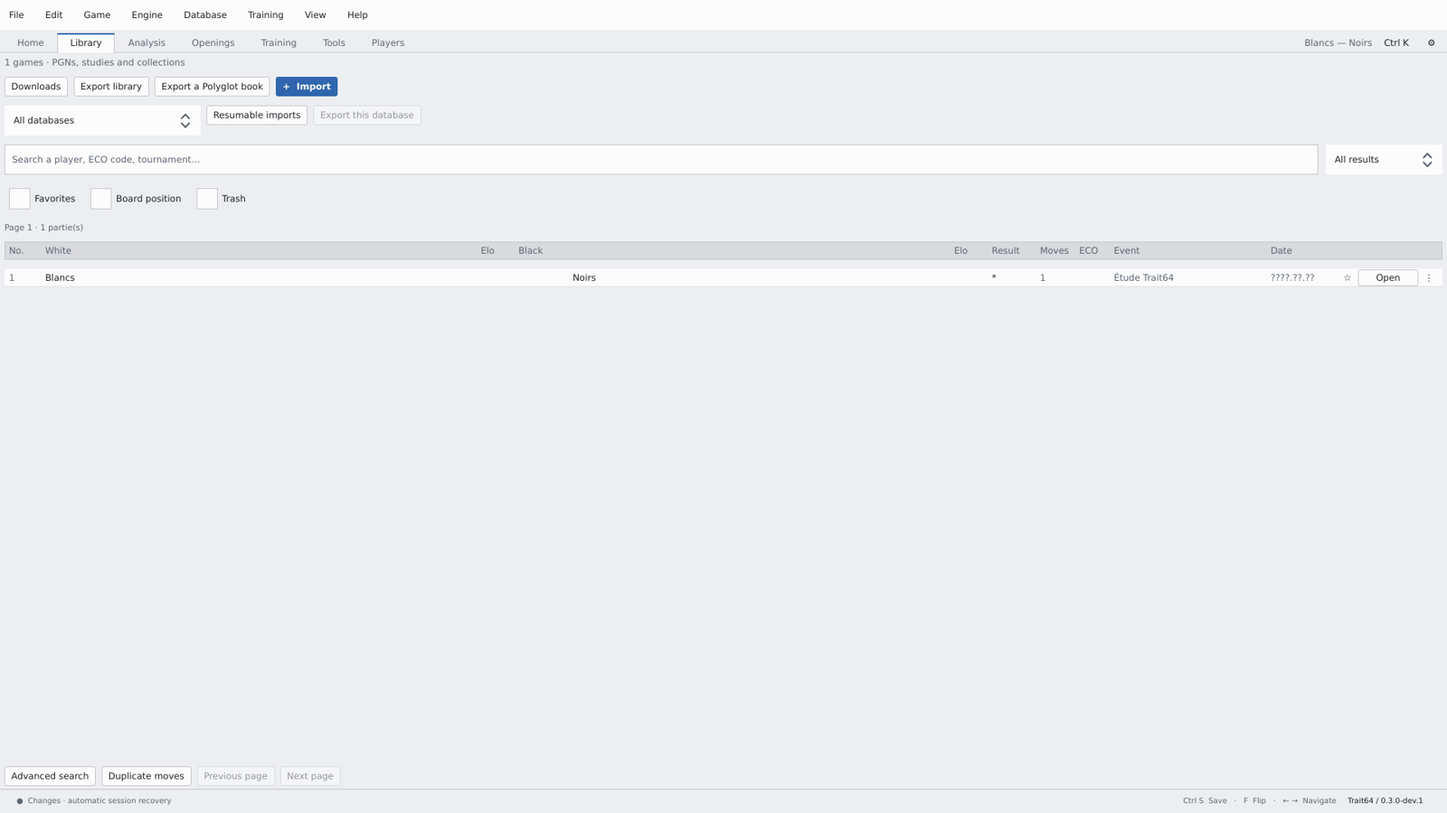
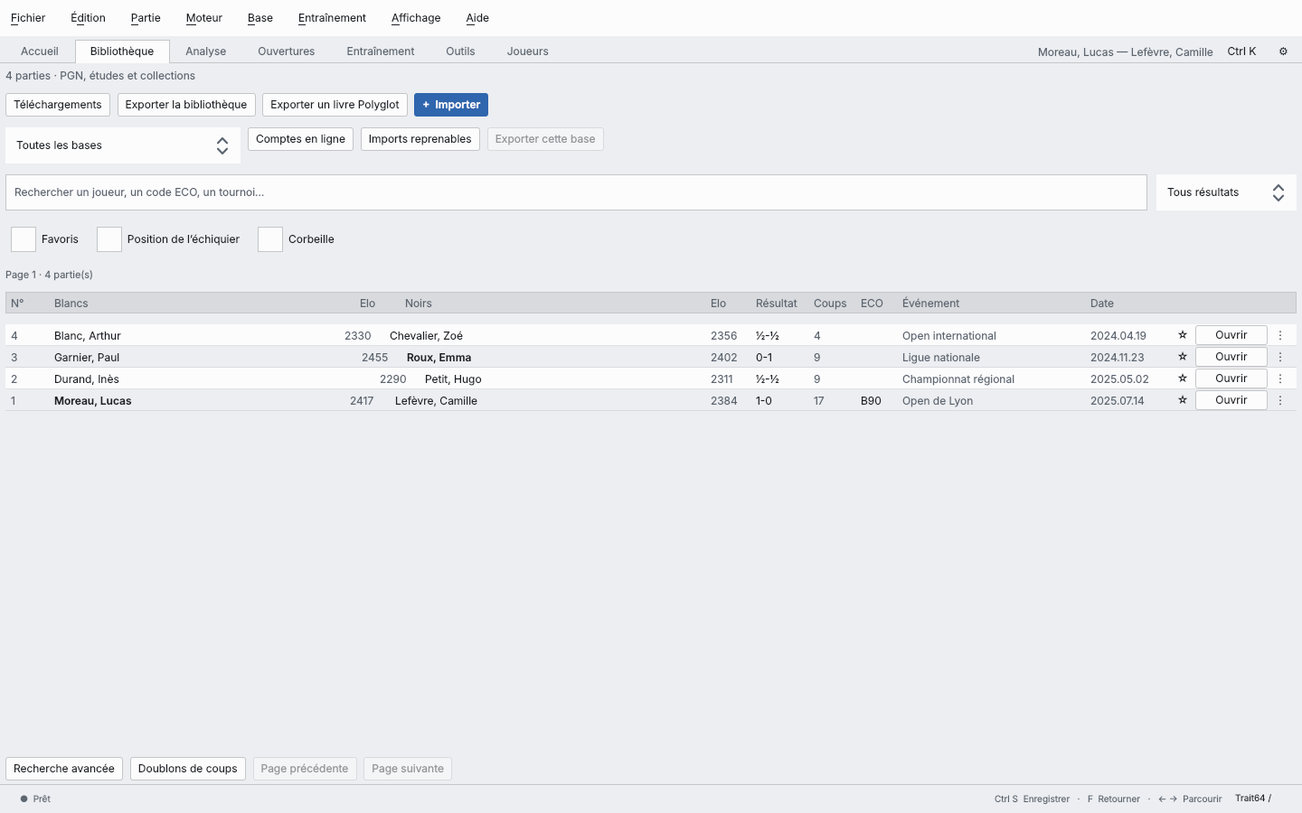
Installation en une commande, README et captures à jour
- install.sh : dernière version publiée, empreinte SHA-256 vérifiée,
  entrée dans le menu, désinstallation ; AppImage sans sudo ou .deb.
- README : téléchargement en tête, captures prises par
  desktop_tests --showcase (Najdorf commentée, moteur en marche).
- Carnet en tableau : étiquette de variante sur sa première ligne seulement.
- Journal des changements : bilan en deux passages, comptes en ligne.

diff --git a/ui/MoveNotebook.qml b/ui/MoveNotebook.qml
@@ -252,7 +252,7 @@ Item {
                 property real moveHeight: modelData.initial ? initialButton.height : cells.height + (branchLabel.visible ? branchLabel.implicitHeight + row.spacing : 0)
                 Label {
                     id: branchLabel
-                    visible: !row.modelData.initial && row.modelData.depth > 0
+                    visible: !row.modelData.initial && row.modelData.depth > 0 && !!row.modelData.start
                     width: row.width - row.indent
                     x: row.indent
                     text: "↳ " + qsTr("Variante") + " · " + row.modelData.depth

diff --git a/tests/showcase_probe.h b/tests/showcase_probe.h
@@ -1,0 +1,63 @@
+// SPDX-License-Identifier: AGPL-3.0-or-later
+#pragma once
+// `desktop_tests --showcase <folder>`: README screenshots from a realistic session
+// (a commented game, several library games, the engine running when T64_STOCKFISH is set).
+
+int showcaseProbe(const QString &directory, const QString &output) {
+    QSettings().setValue("language", "fr");
+    QSettings().setValue("lightTheme", true);
+    Controller c(directory + "/showcase");
+    if (!qEnvironmentVariable("T64_STOCKFISH").isEmpty()) {
+        c.setPreference("enginePath", qEnvironmentVariable("T64_STOCKFISH"));
+        c.setPreference("multiPV", 3);
+    }
+    c.importText(
+        "[Event \"Open de Lyon\"]\n[Date \"2025.07.14\"]\n[White \"Moreau, Lucas\"]\n[Black \"Lefèvre, Camille\"]\n"
+        "[WhiteElo \"2417\"]\n[BlackElo \"2384\"]\n[Result \"1-0\"]\n[ECO \"B90\"]\n\n"
+        "1. e4 c5 2. Nf3 d6 3. d4 cxd4 4. Nxd4 Nf6 5. Nc3 a6 6. Be3 e5 (6... e6 7. f3 b5 8. Qd2 Nbd7 9. g4) 7. Nb3 Be6 "
+        "8. f3 {Le plan f3, Dd2 et grand roque : les Blancs visent g4-g5 sur l'aile roi.} Be7 9. Qd2 O-O 10. O-O-O Nbd7 "
+        "11. g4 b5 12. g5 Nh5 13. Nd5 Bxd5 14. exd5 f5 15. gxf6 Bxf6 16. Bh3 b4 17. Kb1 a5 1-0\n\n"
+        "[Event \"Championnat régional\"]\n[White \"Durand, Inès\"]\n[Black \"Petit, Hugo\"]\n[WhiteElo \"2290\"]\n"
+        "[BlackElo \"2311\"]\n[Result \"1/2-1/2\"]\n[Date \"2025.05.02\"]\n\n1. e4 c5 2. Nf3 d6 3. d4 cxd4 4. Nxd4 Nf6 5. Nc3 a6 "
+        "6. Be3 e5 7. Nb3 Be6 8. Be2 Be7 9. O-O O-O 1/2-1/2\n\n"
+        "[Event \"Ligue nationale\"]\n[White \"Garnier, Paul\"]\n[Black \"Roux, Emma\"]\n[WhiteElo \"2455\"]\n"
+        "[BlackElo \"2402\"]\n[Result \"0-1\"]\n[Date \"2024.11.23\"]\n\n1. e4 c5 2. Nf3 d6 3. d4 cxd4 4. Nxd4 Nf6 5. Nc3 a6 "
+        "6. Be3 e5 7. Nb3 Be6 8. f3 h5 9. Qd2 Nbd7 0-1\n\n"
+        "[Event \"Open international\"]\n[White \"Blanc, Arthur\"]\n[Black \"Chevalier, Zoé\"]\n[WhiteElo \"2330\"]\n"
+        "[BlackElo \"2356\"]\n[Result \"1/2-1/2\"]\n[Date \"2024.04.19\"]\n\n1. d4 d5 2. c4 e6 3. Nc3 Nf6 4. Bg5 Be7 1/2-1/2");
+    QElapsedTimer wait;
+    wait.start();
+    while ((c.busy() || c.librarySearching()) && wait.elapsed() < 15000) QTest::qWait(20);
+    qint64 id = 0;
+    for (const auto &value : c.games())
+        if (value.toMap()["white"] == "Moreau, Lucas") id = value.toMap()["id"].toLongLong();
+    check(id > 0, "Showcase game imported");
+    c.loadGame(id);
+    // 7... Be6: main-line node 14.
+    for (int ply = 0; ply < 14; ++ply) c.step(1);
+    const int node = c.state()["node"].toInt();
+    QQmlApplicationEngine engine;
+    engine.rootContext()->setContextProperty("controller", &c);
+    engine.load(QUrl("qrc:/ui/Main.qml"));
+    check(!engine.rootObjects().isEmpty(), "Showcase QML loads");
+    auto *window = qobject_cast<QQuickWindow *>(engine.rootObjects().first());
+    window->resize(1440, 900);
+    auto grab = [&](const QString &name) {
+        QTest::qWait(300);
+        auto image = window->contentItem()->grabToImage();
+        QSignalSpy ready(image.data(), &QQuickItemGrabResult::ready);
+        check(ready.wait(5000) && image->saveToFile(output + "/" + name + ".png"), "Showcase screenshot saved");
+    };
+    window->setProperty("page", 1);
+    grab("library");
+    window->setProperty("page", 2);
+    c.navigate(node);
+    if (!qEnvironmentVariable("T64_STOCKFISH").isEmpty()) {
+        c.toggleAnalysis();
+        QTest::qWait(4000);
+    }
+    grab("analysis");
+    if (c.state()["analysis"].toBool()) c.toggleAnalysis();
+    std::cout << "Showcase screenshots written to " << output.toStdString() << "\n";
+    return 0;
+}

diff --git a/app/move_notation.h b/app/move_notation.h
@@ -71,6 +71,7 @@ inline QVariantList moveRows(const Game &game, int current, int french) {
     // siblings are emitted as separate blocks after the complete parent row.
     std::function<void(int, int)> line = [&](int id, int depth) {
         if (depth > 128) return;
+        bool start = true;
         while (id > 0 && visited < 10000) {
             const auto &node = game.nodes[id];
             const auto board = game.boardAt(node.parent);
@@ -78,7 +79,8 @@ inline QVariantList moveRows(const Game &game, int current, int french) {
             const bool white = board.sideToMove() == chess::Color::WHITE;
             int last = id;
             QVariantMap row{{"initial", false}, {"depth", depth}, {"number", number},
-                            {"white", QVariantMap()}, {"black", QVariantMap()}};
+                            {"white", QVariantMap()}, {"black", QVariantMap()}, {"start", start}};
+            start = false;
             row[white ? "white" : "black"] = entry(id);
             ++visited;
             if (white && !node.children.empty() && visited < 10000) {

diff --git a/tests/ui_layout_probe.h b/tests/ui_layout_probe.h
@@ -24,7 +24,7 @@ int uiLayoutProbe(const QString &directory) {
     auto *window=qobject_cast<QQuickWindow *>(engine.rootObjects().first());
     check(window, "Layout: application window exists");
     struct Scenario {int width,height;double text,ui;bool light;const char *language;};
-    const Scenario scenarios[]={{960,640,1,1,false,"fr"},{1366,768,1,1,false,"fr"},{1440,940,1,1,false,"fr"},{1920,1080,1,1,true,"en"},{2560,1600,1,1,false,"en"},{960,640,1.5,1,true,"en"},{1366,768,1.5,1.25,false,"fr"},{1440,940,1.5,1.25,true,"en"},{960,640,1.5,1.25,true,"en"}};
+    const Scenario scenarios[]={{960,640,1,1,false,"fr"},{1366,768,1,1,false,"fr"},{1440,940,1,1,false,"fr"},{1920,1080,1,1,true,"en"},{2560,1600,1,1,false,"en"},{960,640,1.5,1,true,"en"},{1366,768,1.5,1.25,false,"fr"},{1440,940,1.5,1.25,true,"en"},{1440,900,1,1,true,"fr"},{960,640,1.5,1.25,true,"en"}};
     const auto output=qEnvironmentVariable("T64_UI_SCREENSHOTS");
     if(!output.isEmpty()) QDir().mkpath(output);
     QJsonArray report;

diff --git a/tests/desktop_tests.cpp b/tests/desktop_tests.cpp
@@ -42,6 +42,7 @@ QQuickItem *visualItem(QQuickItem *parent, const QString &name) {
 #include "import_gui_probe.h"
 #include "ui_layout_probe.h"
 #include "move_notebook_probe.h"
+#include "showcase_probe.h"
 // Hold the global pool so the queued verification cannot finish before we
 // exercise the UI and request cancellation. Release safely on assertion failure.
 class PoolGate {
@@ -86,6 +87,8 @@ int main(int argc, char **argv) {
     try {
         if (app.arguments().contains("--move-notebook")) return moveNotebookProbe(dir.path());
         if (app.arguments().contains("--ui-layout")) return uiLayoutProbe(dir.path());
+        if (const int i = int(app.arguments().indexOf("--showcase")); i > 0 && i + 1 < app.arguments().size())
+            return showcaseProbe(dir.path(), app.arguments()[i + 1]);
         if (app.arguments().contains("--benchmark-import"))
             return importGuiProbe(app, dir.path());
         if (!qEnvironmentVariable("T64_STOCKFISH").isEmpty()) {

diff --git a/tests/move_notebook_probe.h b/tests/move_notebook_probe.h
@@ -10,7 +10,10 @@ int moveNotebookProbe(const QString &directory) {
     const auto game = t64::parsePgn(fixture.toStdString()).front();
     const auto rows = t64::moveRows(game, 2, true);
     QSet<int> seen;
-    int selected = 0;
+    int selected = 0, starts = 0;
+    for (const auto &value : rows) starts += value.toMap()["start"].toBool() && value.toMap()["depth"].toInt() > 0;
+    // Variations: (1. d4 d5 … 2. c4), (1... Nf6), (1... c5 … d6), (2. d4 cxd4): one label each.
+    check(starts == 4, "Notebook labels each variation once, on its first row");
     for (const auto &value : rows) {
         const auto row = value.toMap();
         if (row["initial"].toBool()) continue;

diff --git a/README.md b/README.md
@@ -1,86 +1,51 @@
 # Trait64
 
-**Atelier d’échecs libre, local et open source pour étudier, analyser, préparer et mémoriser.**
+**Logiciel d’échecs libre pour Linux : bases de parties, analyse avec Stockfish, préparation d’ouvertures et entraînement. Sans compte, sans cloud, sans publicité.**
 
-[![License: AGPL-3.0-or-later](https://img.shields.io/badge/license-AGPL--3.0--or--later-blue.svg)](LICENSE)
-![C++23](https://img.shields.io/badge/C%2B%2B-23-00599C.svg)
-![Qt 6](https://img.shields.io/badge/Qt-6-41CD52.svg)
-![Linux](https://img.shields.io/badge/platform-Linux-FCC624.svg)
-![Status: Alpha](https://img.shields.io/badge/status-alpha-orange.svg)
-[![Linux CI](https://github.com/feuvrierbernardinisimhon-png/Trait64/actions/workflows/linux.yml/badge.svg)](https://github.com/feuvrierbernardinisimhon-png/Trait64/actions/workflows/linux.yml)
+[![Version](https://img.shields.io/github/v/release/SimzyGit/Trait64?include_prereleases&label=version)](https://github.com/SimzyGit/Trait64/releases)
+[![License: AGPL-3.0-or-later](https://img.shields.io/badge/licence-AGPL--3.0--or--later-blue.svg)](LICENSE)
+![Linux](https://img.shields.io/badge/plateforme-Linux-FCC624.svg)
+[![Linux CI](https://github.com/SimzyGit/Trait64/actions/workflows/linux.yml/badge.svg)](https://github.com/SimzyGit/Trait64/actions/workflows/linux.yml)
 
-[**Fonctionnalités**](#ce-qui-fonctionne) · [**État actuel**](docs/PROJECT-STATUS.md) · [**Comparaison**](#comparaison-avec-des-logiciels-similaires) · [**Roadmap**](docs/ROADMAP.md) · [**Releases**](https://github.com/feuvrierbernardinisimhon-png/Trait64/releases) · [**Compilation**](#compiler-sans-linstallateur)
+![Trait64 : échiquier, notation, arbre et moteur](docs/screenshots/analysis.png)
 
-Trait64 est une application de bureau pensée comme une alternative moderne, locale et indépendante aux grands outils d’étude échiquéenne. Elle réunit dans un même environnement **bibliothèques de parties, moteurs UCI, analyse, préparation d’ouvertures, annotations, entraînement et gestion d’études**, sans imposer de compte, de cloud ni de télémétrie.
+## Télécharger
 
-**English summary —** Trait64 is a **local-first, open-source chess database and analysis desktop application for Linux**, built with **C++23 and Qt6**. It combines **PGN/FEN game management, named SQLite chess databases, downloadable UCI engines, Stockfish/Arasan/PlentyChess profiles, MultiPV analysis, Chess960, opening preparation, cancellable indexed search, game annotation and chess training** in one offline-capable application.
+**Linux (Debian, Ubuntu, Mint, Fedora…)** : une seule commande dans un terminal.
 
-> **Version publiée vérifiée : [v0.3.0-dev.64](https://github.com/feuvrierbernardinisimhon-png/Trait64/releases/tag/v0.3.0-dev.64) (28 octobre 2026).** Trait64 reste **en alpha**, Linux d’abord (Debian 12/13, AppImage), avec une architecture C++23 / Qt6. Le travail se poursuit : [état vérifié et limites](docs/PROJECT-STATUS.md) · [roadmap](docs/ROADMAP.md). Les fonctionnalités développées en pull request mais non fusionnées ne figurent pas dans les versions publiées.
+```bash
+curl -fsSL https://raw.githubusercontent.com/SimzyGit/Trait64/main/install.sh | bash
+```
 
-### Principes du projet
+Elle télécharge la dernière version, vérifie son empreinte SHA-256 et ajoute **Trait64** au menu des applications, sans mot de passe ni compilation. Les mises à jour se font ensuite depuis le logiciel (**Menu → Mises à jour**). Pour désinstaller : même commande suivie de `-s -- --uninstall`.
 
-- **Local-first** : les parties, bases, analyses et préférences restent sur la machine de l’utilisateur.
-- **Libre et auditable** : code sous GNU AGPL v3 ou ultérieure et dépendances documentées.
-- **Orienté étude** : navigation PGN, variantes, commentaires, préparation, analyse moteur et entraînement dans un même flux de travail.
-- **Interopérable** : PGN et FEN restent au centre ; Trait64 évite l’enfermement dans un format propriétaire.
-- **Extensible** : architecture destinée à accueillir de nouveaux moteurs, formats, bases, outils de recherche et modules d’entraînement.
+Vous préférez télécharger vous-même ? Sur la [page des versions](https://github.com/SimzyGit/Trait64/releases), prenez :
 
-### À qui s’adresse Trait64 ?
+| Votre système | Fichier | Installation |
+| --- | --- | --- |
+| Debian 12 | `trait64_…_debian12_amd64.deb` | double-clic, ou `sudo apt install ./fichier.deb` |
+| Debian 13 | `trait64_…_debian13_amd64.deb` | double-clic, ou `sudo apt install ./fichier.deb` |
+| Autre Linux 64 bits | `Trait64-…-linux-x86_64.AppImage` | rendre exécutable (clic droit → Propriétés), puis ouvrir |
 
-Trait64 vise les joueurs, entraîneurs et passionnés qui veulent **analyser leurs parties**, construire une **base de données d’échecs locale**, travailler leurs **ouvertures**, comparer plusieurs **moteurs UCI** comme Stockfish, rechercher des positions et conserver leurs études sans dépendre d’un service cloud. Le projet privilégie Linux aujourd’hui, tout en gardant une architecture portable pour de futures versions Windows et macOS.
+Windows et macOS : pas encore publiés. Le code compile déjà sur ces systèmes en intégration continue ; les installateurs viendront ensuite.
 
-L’interface native utilise une navigation latérale compacte ou développée, un grand échiquier et des panneaux redimensionnables. Police, taille du texte, échelle, thème et libellés français/anglais sont réglables ; les préférences personnelles sont conservées.
+Aucun moteur n’est imposé : installez Stockfish depuis votre distribution (`sudo apt install stockfish`) ou téléchargez Stockfish, Arasan ou PlentyChess depuis **Bibliothèque → Téléchargements**.
 
-## Nouveautés récentes — série 0.3
+## Ce que fait Trait64
 
-### Refonte native (dev.64)
-
-- **Navigation latérale et grand échiquier** : accueil réorganisé, panneaux adaptables et palette de commandes au clavier.
-- **Lecture personnalisable** : police système, texte de 90 à 150 %, interface de 90 à 125 %, contraste renforcé et libellés français/anglais. Certains diagnostics et descriptifs de catalogue restent français.
-- **Corrections visuelles** : commandes coupées, profil Joueurs vide bloquant le démarrage, titre d’aide et couleurs des dialogues ; schéma SQLite 7 conservé.
-- **Validation** : 13 suites Debian 12/13 et Qt ASan/UBSan, 1 180 contrôles locaux avec 164 captures. Paquets installés et AppImage démarrée ; essai matériel Voyager encore à faire. [Périmètre](docs/UI-REDESIGN.md) · [Publication](docs/VALIDATION.md).
-
-### Vérification de la base et qualification 100k (dev.57)
-
-- **Vérification en arrière-plan et annulable** : le contrôle d'intégrité ne retient plus le fil de l'interface ; l'étude ouverte est conservée. Relance et fermeture protégées. [Portée du correctif](docs/ASYNC-INTEGRITY.md).
-- **100 000 parties réelles qualifiées** sur le code d'import dev.55 : navigation Qt pendant l'import, sauvegarde/restauration et empreinte de tous les PGN ; réindexation de 10 000 parties. Les mesures sans écran ne remplacent pas un essai Voyager ni la qualification de plusieurs millions. [Résultats](docs/VALIDATION.md).
-- **12 suites réussies** localement et en CI Debian 12/13 et Qt ASan/UBSan, paquets installés et AppImage démarrés. [Publication vérifiée](docs/VALIDATION.md).
-
-### Imports PGN (dev.55)
-
-- **Deux coûts d'import supprimés** : recherche des doublons par l'index des empreintes et calcul direct des clés matérielles, sans changement du schéma 7.
-- **Mesure conservée sur 10 000 parties réelles** : 93,114 → 42,498 s sur le même hôte et protocole (−54,4 % dans cet essai). Données comparées, sauvegarde et restauration vérifiées ; ce gain ne certifie pas les volumes de plusieurs millions. [Méthode et limites](docs/PERFORMANCE.md).
-- **Validation et distribution** : 12 suites sous Debian 12/13 et Qt ASan/UBSan, paquets installés et AppImage testés ; cinq fichiers de release vérifiés, aucune archive Actions. [Publication](docs/VALIDATION.md).
-
-### Fiabilité et analyse tactique (dev.46 → dev.52)
-
-- **Grand audit de robustesse (dev.52)** : dix groupes de défauts corrigés, dont la récupération des sessions endommagées, la fin de réindexation annulée, les réponses UCI périmées, la fermeture pendant l’authentification GitHub et les cas limites de nullité. Les anciennes analyses en cache incorrectement classées comme terminées sont recalculées lors d’une nouvelle analyse.
-- **Vérification automatisée renforcée** : 12 suites réussies sous Debian 12 et 13, ASan/UBSan sur le cœur et les modules Qt, 3 000 mutations FEN/PGN. Les paquets Debian et l’AppImage démarrent dans la CI ; **aucun essai sur l’ordinateur Voyager de l’utilisateur n’est revendiqué**. [Audit détaillé](docs/DEBUG-AUDIT.md).
-- **Motifs tactiques illustrés (dev.46)** : attaques multiples, clouages et enfilades impliquant le roi, échecs à la découverte et doubles échecs ; les repères graphiques sont conservés dans une copie PGN annotée. Une attaque observée ne constitue pas une preuve de gain forcé. [Portée et limites](docs/TACTICAL-MOTIFS.md).
-- **Comprendre ce coup (dev.43)** : comparaison des suites avant/après le coup, vérification de leur légalité, captures, promotions, roques, échecs, mats/pats, matériel et contexte du moteur, avec ouverture d’une étude indépendante.
-
-### Outils de travail livrés auparavant
-
-Les autres fonctionnalités majeures de la série 0.3 comprennent :
-
-- **Moteurs téléchargeables et vérifiés** : Stockfish 19, Arasan 26 et PlentyChess 8, avec contrôle de compatibilité, SHA-256, progression et annulation.
-- **Profils UCI indépendants** : plusieurs réglages par moteur, avec Threads, Hash, MultiPV, Syzygy et options découvertes directement depuis le handshake UCI.
-- **42 collections PGN optionnelles** : champions du monde, championnes disponibles, matchs historiques et ouvertures, téléchargées depuis leur source sans être incorporées au dépôt.
-- **Bases nommées** : historique des imports, export d’une base choisie et rattachement d’une même partie à plusieurs bases sans duplication.
-- **Recherche avancée combinée** : base, joueur et couleur, ouverture/ECO, date, Elo, tournoi, résultat, favoris, matériel et position.
-- **Recherche asynchrone et annulable** : interrogation SQLite en arrière-plan, pages de 200 résultats par curseur et protection contre les réponses périmées.
-- **Imports PGN reprenables** : lecture parallèle paramétrable (1 à 8 lecteurs), lots transactionnels, progression, pause, reprise après interruption et vérification du fichier par SHA-256.
-- **Répertoires par position** : camp, transpositions, alternatives, notes, parties modèles et répétition espacée. Création, fusion, import/export et couverture locale en arrière-plan, avec annulation et conservation des notes/révisions.
-- **Analyses persistantes** : ligne principale ou toutes les variantes, profils moteur, MultiPV, pause/reprise après plantage, cache avec provenance, résultats paginés et export annoté. Un répertoire entier peut être analysé depuis une copie indépendante.
-- **Publication sans archives Actions** : les paquets Debian 12/13, l’AppImage et les sources correspondantes sont vérifiés puis transmis directement à GitHub Releases.
-- **Préparation filtrée** : statistiques par position, base, adversaire/couleur, période et Elo connu ; calcul annulable et export CSV contextualisé.
-- **SQLite schéma 8** : positions indexées par clé Zobrist 64 bits (base 59 % plus petite sur 20 000 parties) ; migrations sauvegardées et conservation des données existantes.
-
-➡ [État actuel (28/10/2026)](docs/PROJECT-STATUS.md) · [Audit de fiabilité](docs/DEBUG-AUDIT.md) · [Motifs tactiques](docs/TACTICAL-MOTIFS.md) · [Guide moteurs et bases](docs/ENGINES-DATABASES.md) · [Imports et répertoires](docs/REPERTOIRES-IMPORTS.md) · [Analyses persistantes](docs/ANALYSIS-QUEUE.md) · [Changelog](docs/CHANGELOG.md) · [Roadmap](docs/ROADMAP.md)
-
-![Atelier d’analyse Trait64](docs/screenshots/analysis.png)
+- **Bibliothèque de parties** : import PGN rapide (même des centaines de milliers de parties), recherche par joueur, ouverture, Elo, date, position exacte ou structure de pions, fiches joueurs.
+- **Vos parties Lichess et Chess.com** : enregistrez vos comptes, la synchronisation ne récupère que les nouvelles parties.
+- **Analyse** : Stockfish ou tout moteur UCI, plusieurs lignes, comparaison de moteurs, bilan de partie (passage avant puis arrière) avec graphe, erreurs expliquées et motifs tactiques.
+- **Ouvertures** : arbre statistique de votre base, livres Polyglot, répertoires avec transpositions, détection des nouveautés, dossier de préparation contre un adversaire.
+- **Entraînement** : puzzles notés (base Lichess libre et vos propres gaffes), cartes à répétition espacée, révision de répertoire.
+- **Jeu** : contre le moteur à un niveau Elo choisi, à deux avec pendule, tournois entre moteurs.
+- **Vos données restent chez vous** : SQLite local, sauvegardes automatiques, PGN et FEN en entrée comme en sortie.
 
 ![Bibliothèque de parties](docs/screenshots/library.png)
+
+**English summary —** Trait64 is a free, local-first chess database and analysis app for Linux (C++23, Qt 6): PGN libraries, UCI engines with two-pass game review, opening trees and Polyglot books, repertoires, Lichess/Chess.com account sync, rated puzzles, engine tournaments. Install: `curl -fsSL https://raw.githubusercontent.com/SimzyGit/Trait64/main/install.sh | bash`.
+
+Projet en **alpha**, développé activement : [nouveautés](docs/CHANGELOG.md) · [état et limites](docs/PROJECT-STATUS.md) · [feuille de route](docs/ROADMAP.md).
 
 ## Comparaison avec des logiciels similaires
 
@@ -125,14 +90,11 @@ Trait64 ne cherche pas à reproduire un logiciel existant à l’identique : son
 
 Sources de référence pour cette comparaison : [ChessBase 18](https://shop.chessbase.com/en/products/chessbase_18_program_only), [Scid vs. PC](https://sourceforge.net/projects/scidvspc/), [En Croissant](https://encroissant.org/docs/). La comparaison reflète les informations publiques disponibles et les fonctions de Trait64 documentées dans ce dépôt ; elle pourra évoluer avec les versions.
 
-## Installer sur ton PC
+## Installer : détails
 
-Les [versions publiées](https://github.com/feuvrierbernardinisimhon-png/Trait64/releases) contiennent une **AppImage x86_64** (Debian 12/13, glibc ≥ 2.36) et deux paquets **.deb**, un pour chaque version de Debian. Le dépôt est privé : connecte-toi à ton compte GitHub pour télécharger les fichiers.
+L’installation rapide est décrite dans [Télécharger](#télécharger). Les fichiers publiés : une **AppImage x86_64** (glibc ≥ 2.36) et deux paquets **.deb**, pour Debian 12 et Debian 13, accompagnés de leurs empreintes `SHA256SUMS`. Sans FUSE, l’AppImage se lance avec `APPIMAGE_EXTRACT_AND_RUN=1 ./Trait64-…AppImage` ; l’installateur le règle tout seul. Sur Debian, `install.sh --deb` installe le paquet correspondant à votre version.
 
-- **AppImage** : télécharge le fichier `.AppImage`, rends-le exécutable dans ses propriétés, puis ouvre-le. Si FUSE est absent, utilise `APPIMAGE_EXTRACT_AND_RUN=1 ./Trait64-…AppImage`. Aucun moteur n’est embarqué dans Trait64 : tu peux installer Stockfish depuis Debian (`sudo apt install stockfish`) ou télécharger Stockfish, Arasan ou PlentyChess depuis **Bibliothèque → Téléchargements → Moteurs**.
-- **Paquet Debian** : choisis `debian12` ou `debian13` selon `/etc/debian_version`, puis installe le fichier avec `sudo apt install ./nom-du-fichier.deb`. Les dépendances et le menu sont installés automatiquement.
-
-Après cette première installation, ouvre **Menu → Mises à jour**. Pour recevoir les préversions actuellement publiées, choisis **Développement** et configure l’accès GitHub privé. Le canal Stable ne reçoit que les véritables Releases stables. Une modification du code ne déclenche jamais de mise à jour stable. Voir [docs/UPDATES.md](docs/UPDATES.md).
+Après l’installation, **Menu → Mises à jour** vérifie les nouvelles versions (canaux Stable, Bêta, Développement), télécharge le fichier, vérifie son empreinte et installe après une sauvegarde. Voir [docs/UPDATES.md](docs/UPDATES.md).
 
 ### Compiler et installer depuis les sources
 
@@ -171,7 +133,7 @@ Pour mettre à jour une compilation locale, tu peux relancer le script ou utilis
 - **Mises à jour** : vérification GitHub en arrière-plan, Stable/Bêta/Développement, notes de version, téléchargement vérifié SHA-256, installation après sauvegarde et redémarrage.
 - **Fiabilité** : sauvegardes automatiques toutes les 6 heures (14 instantanés), session atomique, sauvegarde SQLite complète, contrôle d’intégrité, sauvegarde avant migration du schéma, import classique annulé intégralement en cas d’erreur, import reprenable conservant les lots validés, protection de la bibliothèque contre un export sur elle-même.
 
-![Choix des pièces et couleurs](docs/screenshots/appearance.png)
+![Apparence et langue](docs/screenshots/appearance.png)
 
 ## Premiers pas
 
@@ -232,9 +194,9 @@ Alpha : le [périmètre restant](docs/ROADMAP.md) est explicite. Les tests autom
 
 Import PGN depuis un fichier : pas de plafond global de 64 Mio, mais **64 Mio par partie**, 100 000 nœuds par étude et 128 niveaux de variantes. Le collage PGN, l’EPD et le profil T64 restent limités à 64 Mio et 10 000 parties/positions. Résultats de bibliothèque paginés par 200 ; affichage de notation limité à 10 000 coups. Session limitée à 16 onglets et 64 Mio, historique annuler/rétablir à 64 étapes et 16 Mio par étude. L’import d’un répertoire est limité à 16 Mio et 200 parties ; l’édition des coups, le retrait de branches, le renommage, la suppression et les révisions restent synchrones. Les corpus de plusieurs millions de parties n’ont pas été qualifiés.
 
-La recherche de positions inclut les variantes ; l’explorateur statistique utilise les lignes principales. Le bilan immédiat analyse uniquement la ligne principale : seuils fixes de 50/100/250 centipions pour imprécision/erreur/gaffe, dépendants du moteur et du budget choisi. La création de cartes depuis ce bilan concerne les échecs classiques et conserve une ligne de solution, sans reconnaître toutes les solutions équivalentes. Les résultats du bilan immédiat restent en mémoire ; **Annoter l’étude** enregistre les évaluations dans le PGN. La file d’analyses séparée conserve ses tâches et résultats en SQLite, peut analyser les variantes et reprendre après une interruption.
+La recherche de positions inclut les variantes ; l’explorateur statistique utilise les lignes principales. Le bilan analyse la ligne principale, par défaut en deux passages (rapide du début à la fin, puis complet de la fin vers le début) : seuils fixes de 50/100/250 centipions pour imprécision/erreur/gaffe, dépendants du moteur et du budget choisi. La création de cartes depuis ce bilan concerne les échecs classiques et conserve une ligne de solution, sans reconnaître toutes les solutions équivalentes. Les résultats du bilan immédiat restent en mémoire ; **Annoter l’étude** enregistre les évaluations dans le PGN. La file d’analyses séparée conserve ses tâches et résultats en SQLite, peut analyser les variantes et reprendre après une interruption.
 
-Pas encore : moteur contre moteur, pendules à plusieurs périodes, Polyglot/SCID/ChessBase, couverture probabiliste et comparaison de répertoires, organisation de tournois, synchronisation, plugins, imports distants, format T64 compact final, Flatpak et validation Windows/macOS. Le monogramme T64 reste provisoire.
+Pas encore : versions Windows et macOS, Flatpak, pendules à plusieurs périodes, formats SCID/ChessBase, couverture probabiliste et comparaison de répertoires, recherche par placement partiel de pièces, plugins et format T64 compact final. Le monogramme T64 reste provisoire.
 
 ## Licence et composants
 

diff --git a/docs/CHANGELOG.md b/docs/CHANGELOG.md
@@ -1,5 +1,12 @@
 # Changements
 
+## Bilan, comptes en ligne et installation — 3 novembre 2026
+
+- **Bilan en deux passages** : un premier passage rapide va du début vers la fin, puis un passage complet remonte de la fin vers le début. Le moteur garde sa table de hachage d'une position à l'autre : en remontant, il connaît déjà la suite de la partie, ce qui rend les évaluations des positions précédentes plus fiables (c'est ce que font les analyses « backward » de ChessBase et SCID). Un seul passage reste possible.
+- **Comptes Lichess et Chess.com** (Fichier → Comptes) : enregistrez vos pseudos, Trait64 ne récupère à chaque synchronisation que les parties jouées depuis la précédente, à la demande ou au démarrage. Retirer un compte garde ses parties.
+- **Installation en une commande** : `install.sh` télécharge la dernière version publiée, vérifie son empreinte SHA-256 et l'ajoute au menu des applications, sans sudo. README refait avec des captures à jour.
+- Carnet en tableau : l'étiquette « Variante » n'apparaît plus qu'au début de chaque variante.
+
 ## Interface classique — 3 novembre 2026
 
 L'interface suit désormais la disposition que connaissent la plupart des joueurs (ChessBase, SCID, analyse Lichess), modernisée : barre de menus, onglets d'espaces de travail, grand échiquier encadré des joueurs (couleur, nom, Elo ou pendule), notation, arbre et livre à droite, moteur dessous, bibliothèque en tableau dense. Thème clair par défaut, gris neutres et un seul accent ; le thème sombre et les tailles restent réglables. L'arbre d'ouvertures montre une barre de résultats Blancs / nulles / Noirs par coup. Le carnet garde des colonnes compactes sur grand écran.

diff --git a/docs/TESTING.md b/docs/TESTING.md
@@ -120,6 +120,13 @@ QT_QPA_PLATFORM=offscreen QT_QUICK_BACKEND=software \
 T64_UI_SCREENSHOTS=/tmp/trait64-ui-captures ./build/desktop_tests --ui-layout
 ```
 
+Les captures du README viennent d’une session réaliste (Najdorf commentée, quatre parties, Stockfish en marche) :
+
+```bash
+QT_QPA_PLATFORM=offscreen QT_QUICK_BACKEND=software T64_STOCKFISH=/usr/games/stockfish \
+./build/desktop_tests --showcase docs/screenshots
+```
+
 Le nombre de contrôles avec captures diffère de celui de la CI, qui ne conserve pas les images. La sonde vérifie géométrie, navigation clavier, exécution d’une commande, préférences et étude non enregistrée. Le démarrage couvre le profil Joueurs vide. Les scénarios clic/glisser, variantes, notes, sauvegarde, entraînement et moteurs restent dans les suites existantes.
 
 Un passage local sur 77521f2 a échoué sur « Latest preparation filters replace stale request ». Les passages suivants et les CI finales ont réussi ; diagnostic du résultat ajouté, assertion inchangée. Cause non établie : [local.json](VALIDATION.md).
